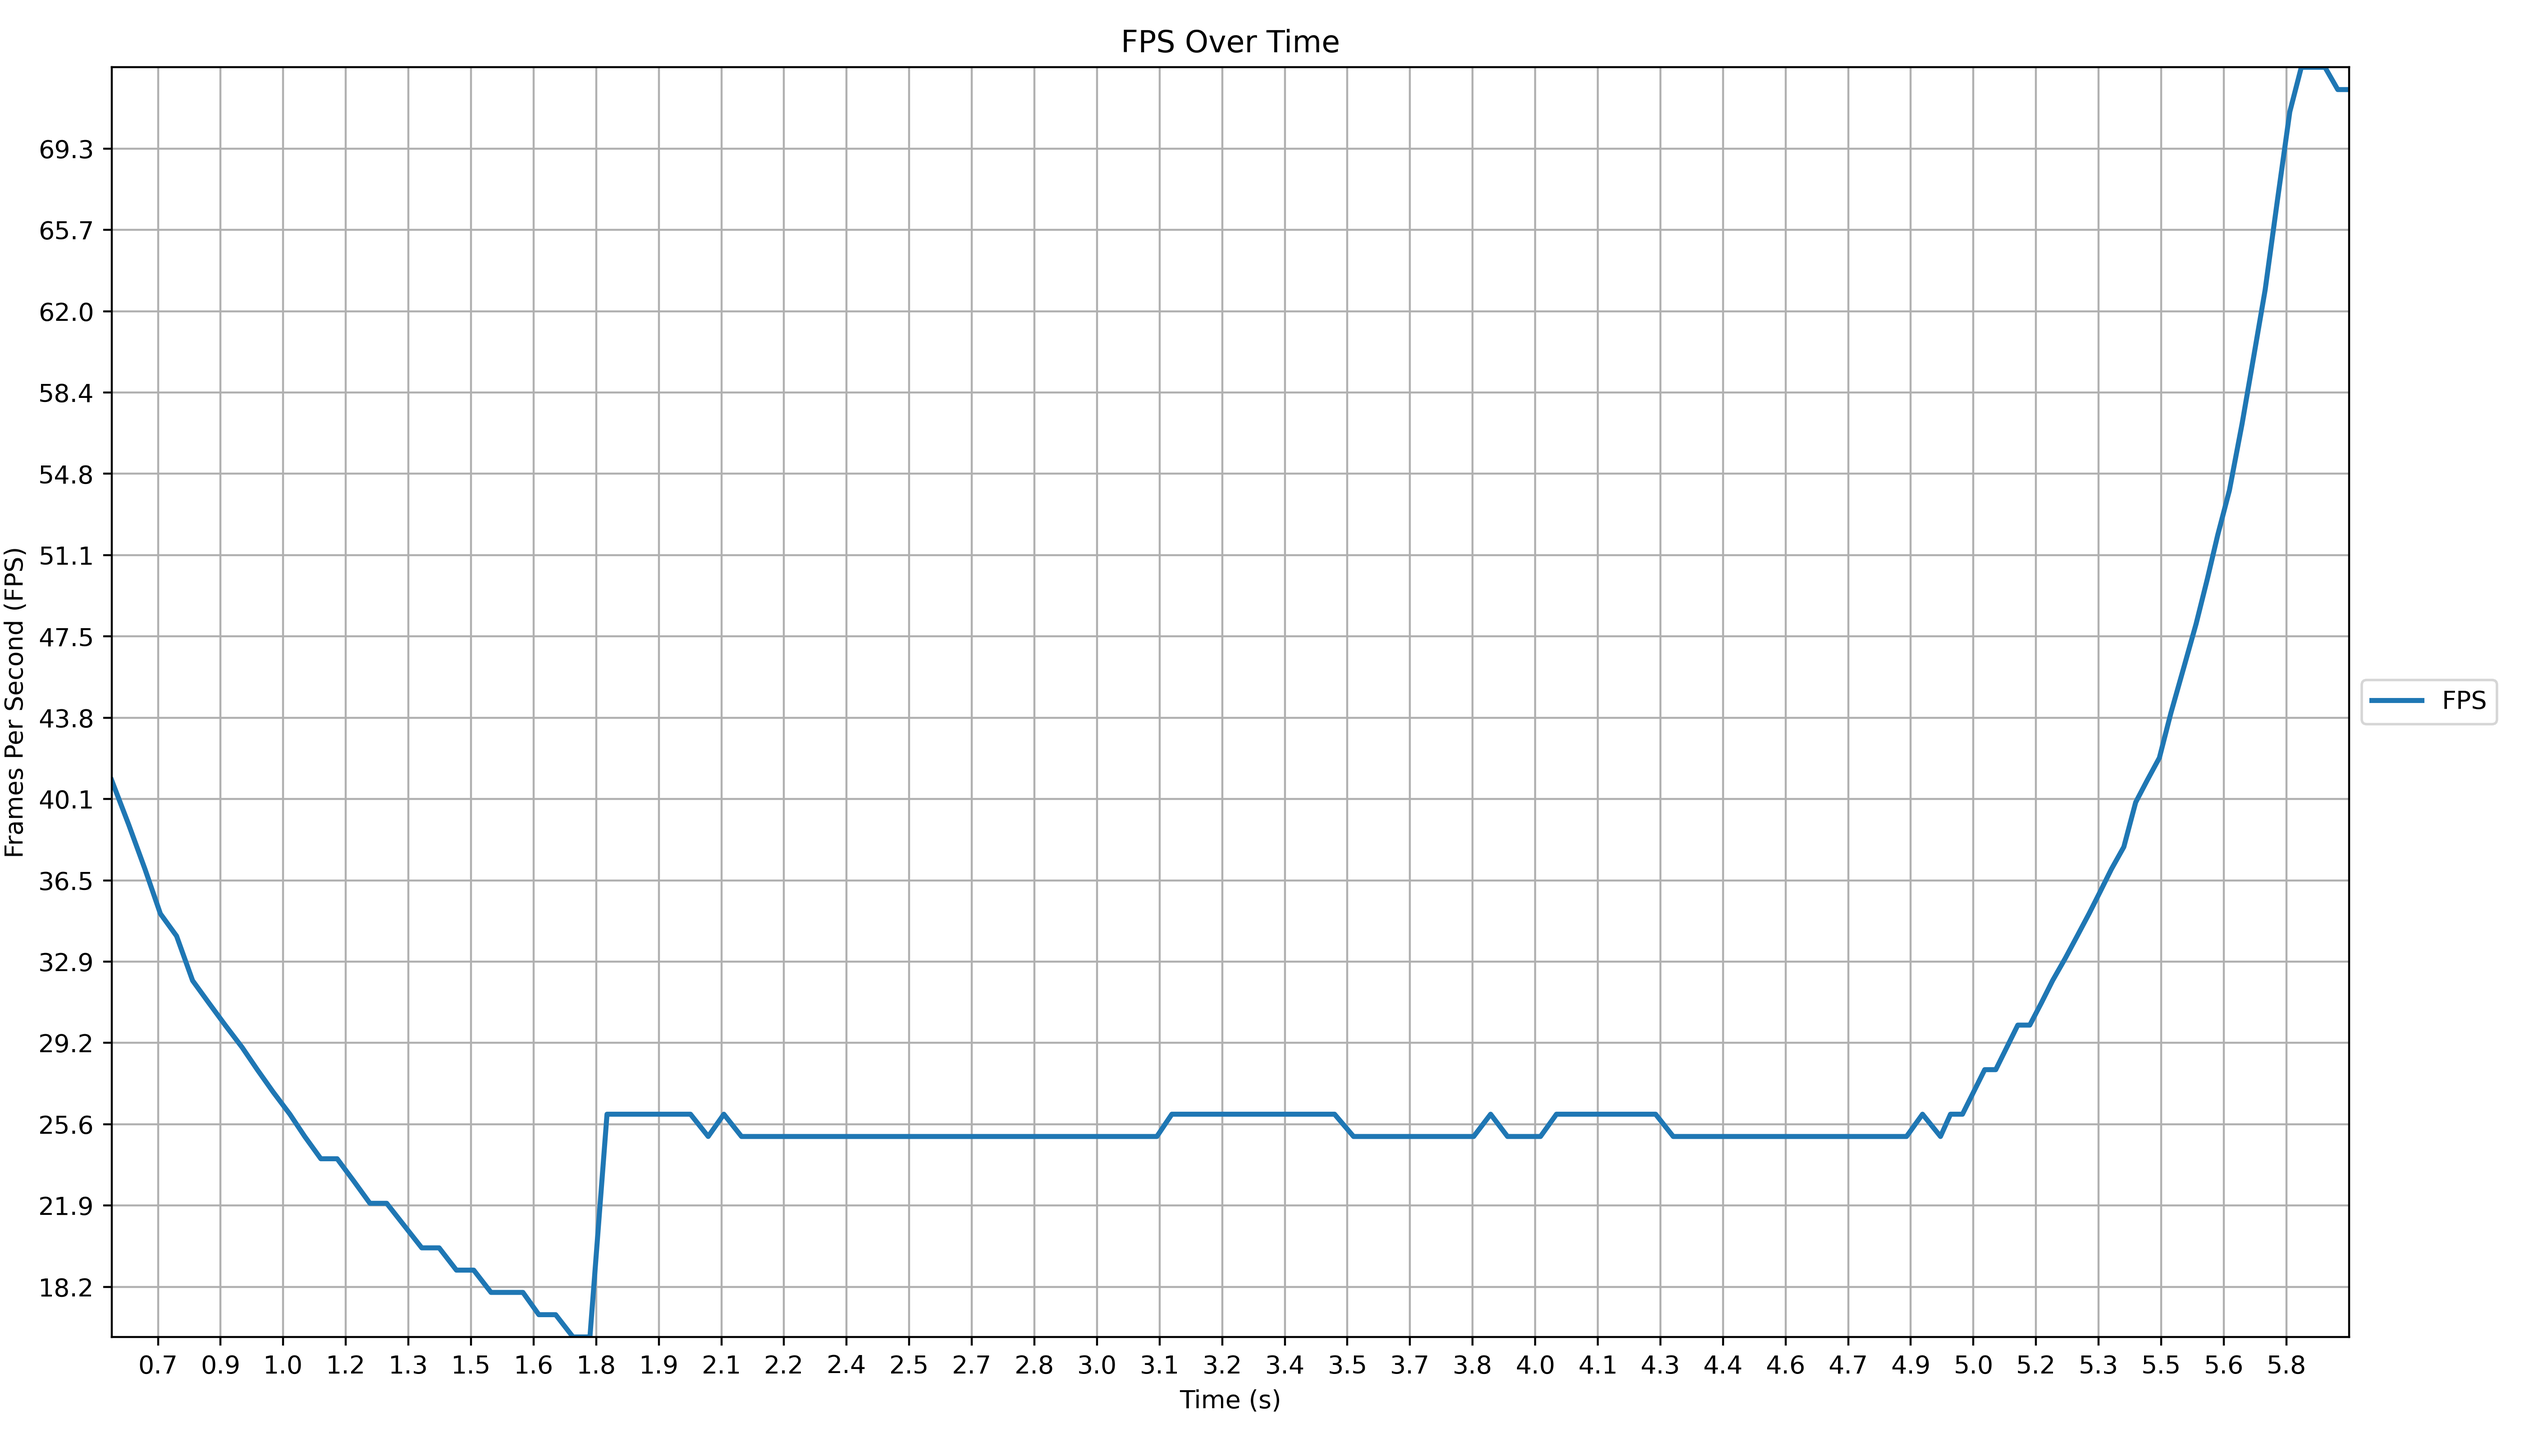
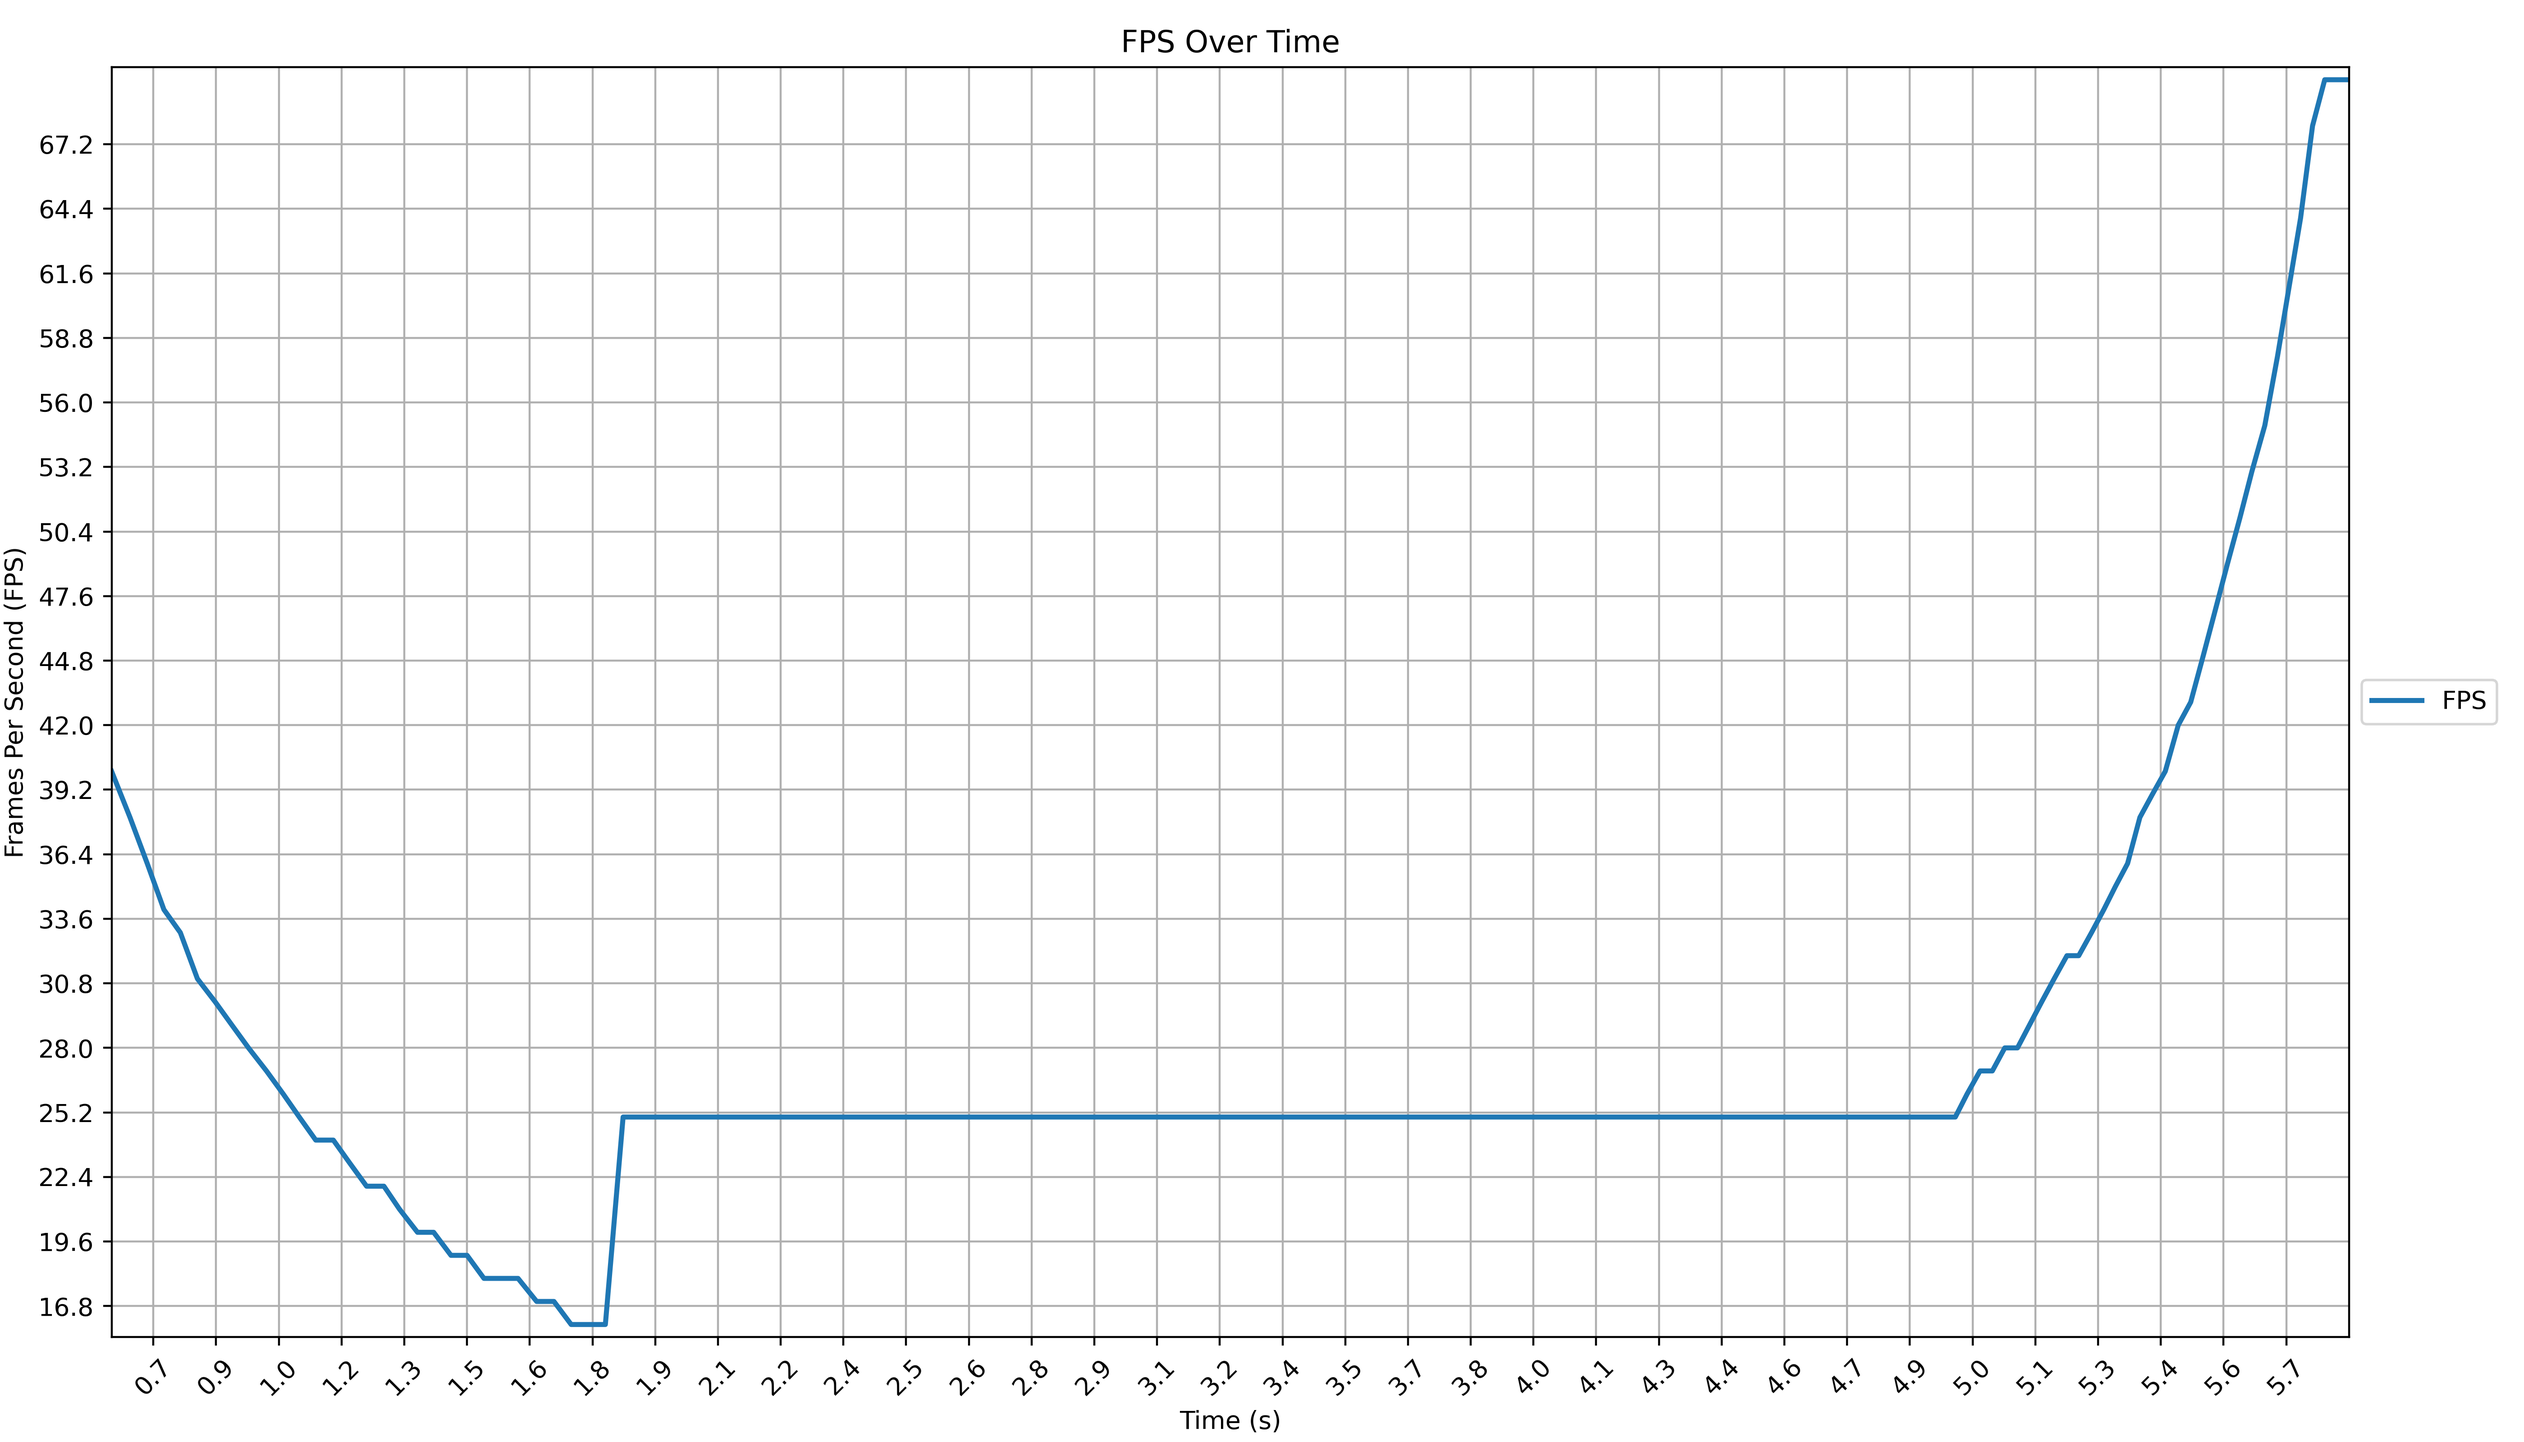
Update benchmarks

Changed region(s): [[0.0, 0.3125, 0.9062, 1.0], [0.0, 0.0938, 0.75, 0.2812], [0.8125, 0.0312, 0.9375, 0.6875]]

diff --git a/benchmarks/instances/__init__.py b/benchmarks/instances/__init__.py
@@ -1,0 +1,47 @@
+import benchmarks.benchmarker as benchmarker
+import extro
+
+extro.Services.WorldService.set_tile_size(6)
+extro.Window.set_title("Instance Benchmark")
+extro.Window.set_size(extro.Vector2(700, 700))
+
+TARGET_NUMBER_OF_INSTANCES: int = 50000
+
+benchmarker.start_tracking()
+
+scene = extro.Instances.World.Scene()
+instances_created: int = 0
+pre_render_connection: str
+
+
+def create_instance():
+    global instances_created
+
+    instances_created += 1
+    x, y = extro.Services.ScreenService.random_absolute_coords()
+    rect = extro.Instances.World.Rectangle(
+        position=extro.Coord(x, y, extro.Coord.CoordType.ABSOLUTE),
+        size=extro.Coord(1, 1, extro.Coord.CoordType.WORLD),
+        color=extro.RGBAColor(255, 0, 0),
+    )
+    scene.add(rect)
+
+    if instances_created >= TARGET_NUMBER_OF_INSTANCES:
+        extro.Services.TimingService.on_pre_render.disconnect(pre_render_connection)
+        benchmarker.stop_tracking(
+            "./benchmarks/instances",
+            {
+                "name": "Instance Benchmark",
+                "Number of Instances": str(instances_created),
+            },
+        )
+
+
+def on_frame():
+    for _ in range(50):
+        create_instance()
+
+
+pre_render_connection = extro.Services.TimingService.on_pre_render.connect(on_frame)
+
+extro.Engine.start()

diff --git a/benchmarks/physics/report.md b/benchmarks/physics/report.md
@@ -1,6 +1,6 @@
 # Physics Benchmark Report
 
-This benchmark ran for 9.91 seconds and captured 228 data points.
+This benchmark ran for 9.91 seconds and captured 221 data points.
 
 ### Benchmark Information
 
@@ -8,16 +8,17 @@ This benchmark ran for 9.91 seconds and captured 228 data points.
 
 ### Average System Response Times
 
-Average FPS: 25.06
+Average FPS: 24.25
 
 - timing: 0.01 ms
 - input: 0.02 ms
-- transform: 11.40 ms
+- transform: 11.90 ms
 - ui: 0.00 ms
-- collision: 13.64 ms
-- physics: 17.54 ms
+- collision: 12.24 ms
+- physics: 18.05 ms
 - animation: 0.02 ms
-- render: 3.21 ms
+- total: 46.05 ms
+- render: 3.81 ms
 - audio: 0.01 ms
 
 ### System Specifications
@@ -32,4 +33,6 @@ Average FPS: 25.06
 ![System Response Times](system_response_times.png)
 
 ![FPS](fps.png)
+
+![Hardware Usage](hardware_usage.png)
 

diff --git a/benchmarks/instances/report.md b/benchmarks/instances/report.md
@@ -1,24 +1,24 @@
-# Animation Benchmark Report
+# Instance Benchmark Report
 
-This benchmark ran for 5.88 seconds and captured 142 data points.
+This benchmark ran for 95.71 seconds and captured 944 data points.
 
 ### Benchmark Information
 
-- Number of Instances: 5000
+- Number of Instances: 50000
 
 ### Average System Response Times
 
-Average FPS: 29.00
+Average FPS: 18.25
 
-- timing: 0.01 ms
+- timing: 0.00 ms
 - input: 0.02 ms
-- transform: 17.09 ms
+- transform: 41.17 ms
 - ui: 0.00 ms
 - collision: 0.00 ms
-- physics: 0.00 ms
-- animation: 14.92 ms
-- total: 37.95 ms
-- render: 5.93 ms
+- physics: 0.01 ms
+- animation: 0.01 ms
+- total: 91.60 ms
+- render: 50.43 ms
 - audio: 0.01 ms
 
 ### System Specifications
